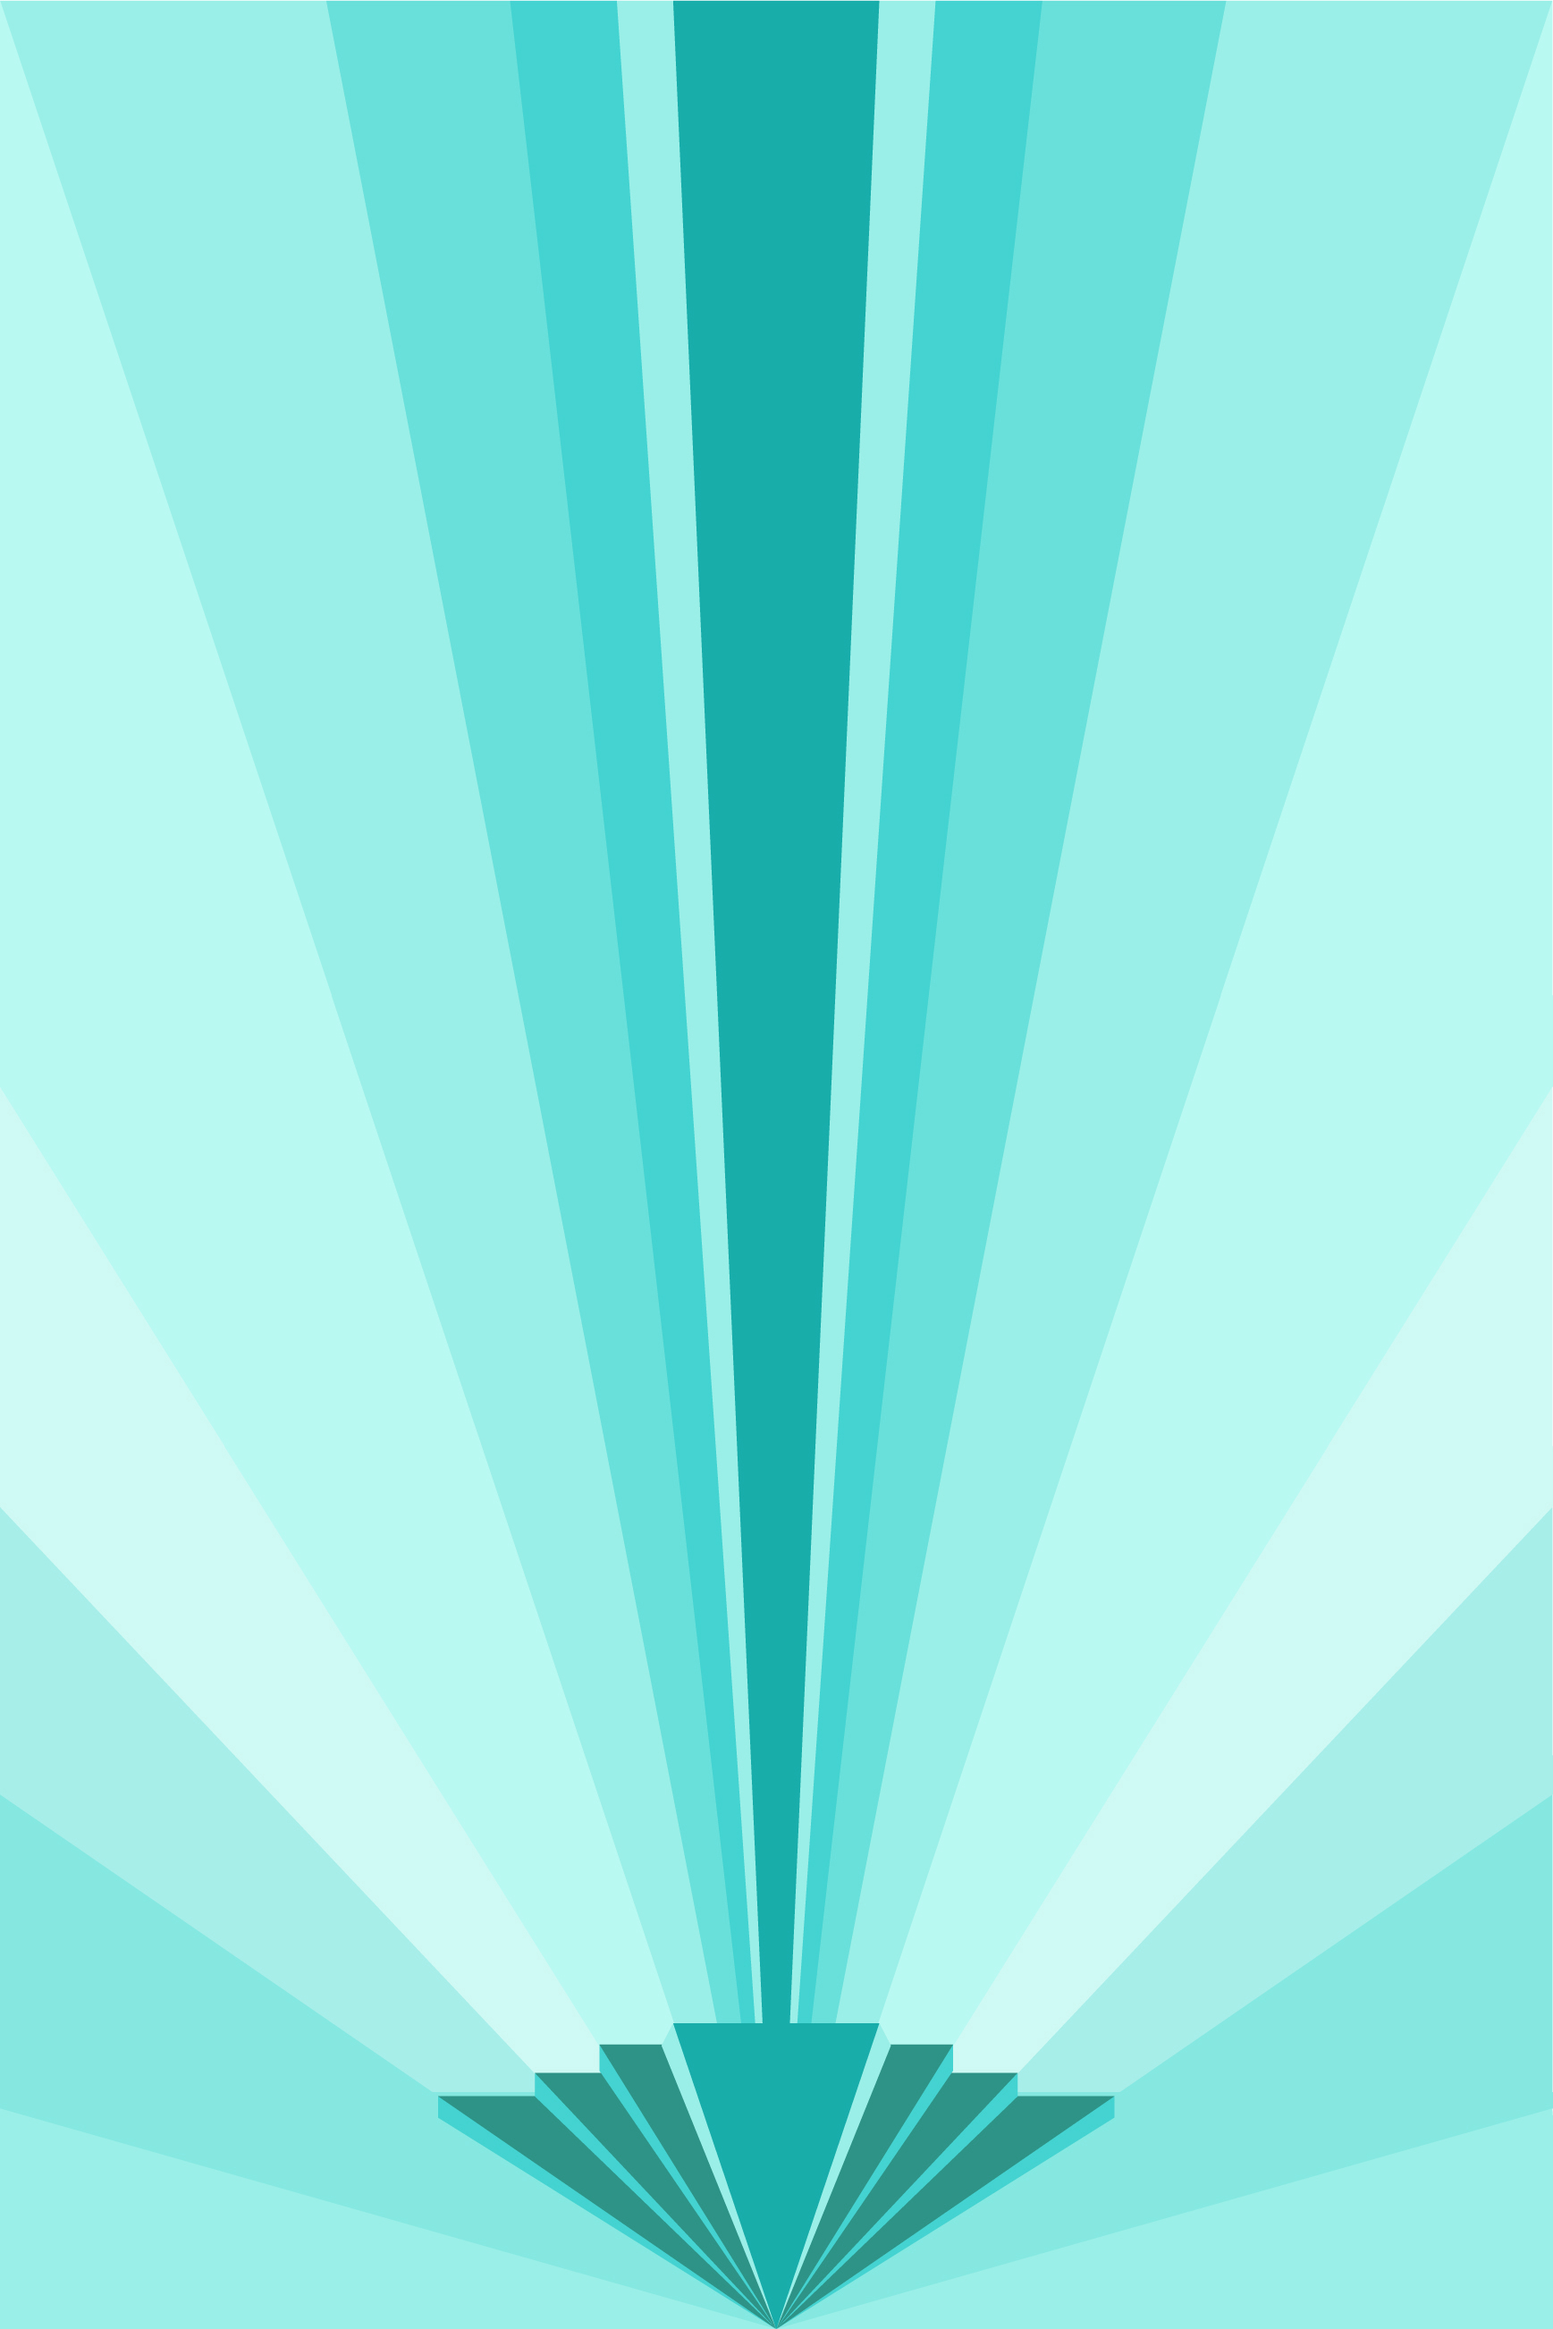
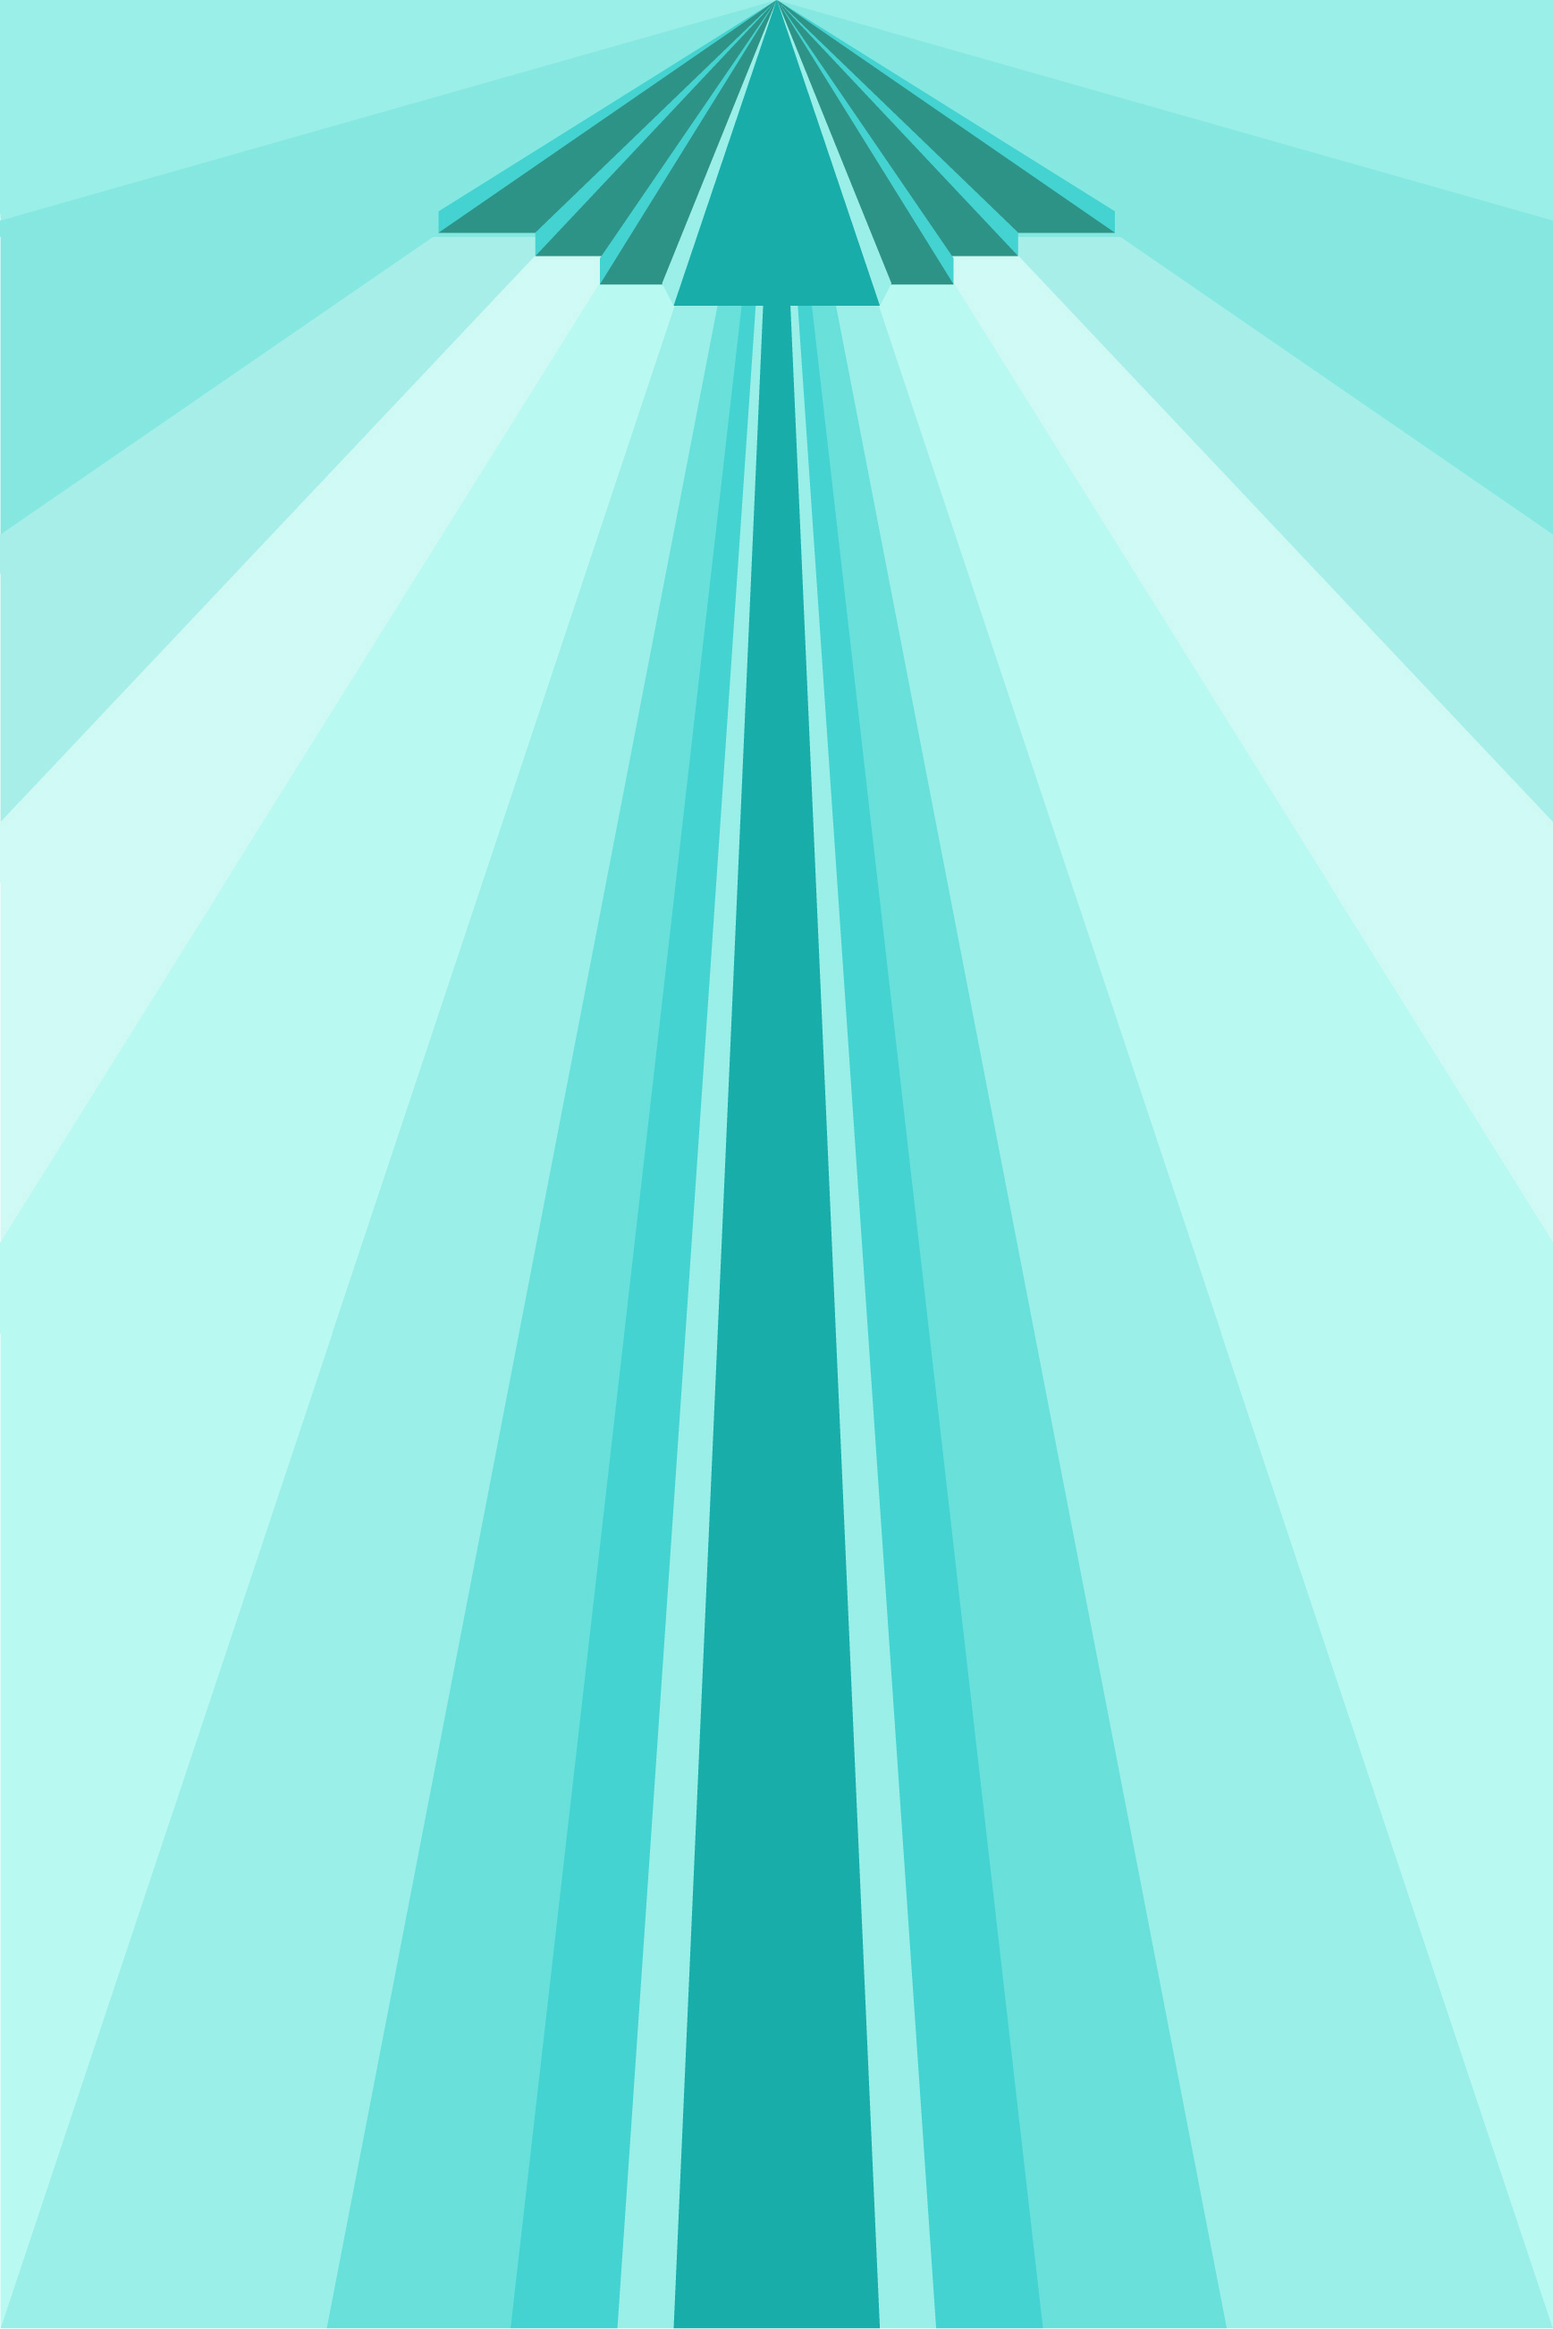
arrow images rotated + chrome fix

diff --git a/templates/create_game.html b/templates/create_game.html
@@ -18,11 +18,13 @@
 	<span style="font-weight: bold;">Lehetséges játékmenet</span>ben az egyik fél csinál a fenti link kimásolásával egy szobát. Ezt a linket megosztja azokkal, akikkel szeretne játszani. A játék folyamán bárki kérhet bármikor új osztást, ehhez a lap alján lévő gombra kell kattintania. Az új lapok mindenkinél megjelennek. A játékosok valamilyen bevett módszerrel kommunikálnak a háttérben, ami célszerűen hanghívás. Az egyik játékos kér egy új osztást, majd sejtelmesen körülírja, hogy melyik kártyára gondolt. A többi játékos barkóbaszerűen kitalálja, hogy miről van szó, esetlegesen a saját gondolatmenetével hangosan elemzi a képeket.
  </p>
 </div>
-<div id='footer'>
-  <a href="/impresszum.html" style="margin-top: 4rem;">Impresszum</a>
-</div>
-<div>
-  <img src="https://simonyi.bme.hu/resources/simonyi_black.svg" width="400px">
-</div>
+<footer>
+	<div>
+	<a href="/impresszum.html" style="margin-top: 4rem;">Impresszum</a>
+	</div>
+	<div>
+	<img src="https://simonyi.bme.hu/resources/simonyi_black.svg" width="400px">
+	</div>
+</footer>
 </body>
 </html>

diff --git a/assets/style.css b/assets/style.css
@@ -68,8 +68,8 @@ body {
 
 #cards img {
   flex: 0 1 32.5%;
-  max-width: 32.5%;
   object-fit: contain;
+  max-width: 32.5%;
 }
 
 .logo {
@@ -92,10 +92,6 @@ ul {
   list-style-type: none;
   margin: 0;
   padding: 0;
-}
-
-#footer {
-  margin-top: 5rem;
 }
 
 footer {
